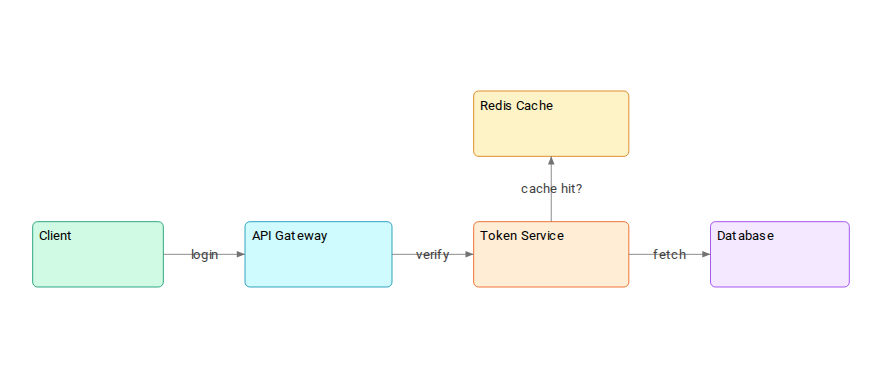
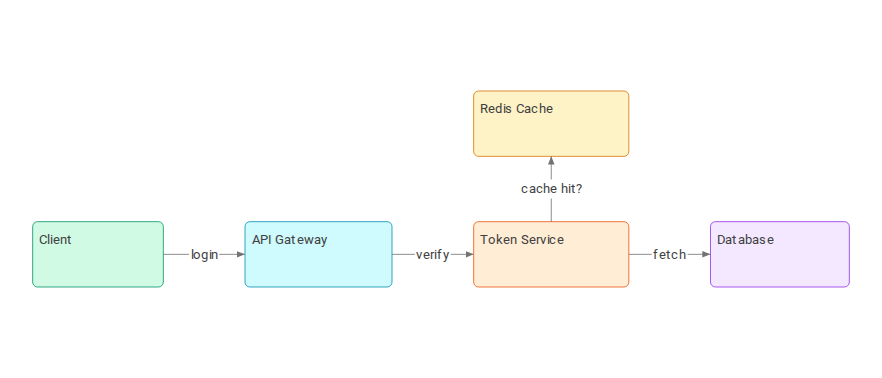
fix(web): docs-snapshot fixtures follow the two seams they fell behind; regenerate docs/assets (#1326)
* fix(web): follow the two seams docs-snapshot fixtures fell behind

`pnpm docs:snapshots` failed 5/8: ADR-0023's boot chain moved
`getBrowserWorkspaceId()` behind an async resolve, and nothing seeded
the docs-snapshot suite's own test seam for it (LocalStoreDouble reads
the accessor in its constructor). WorkspaceTopBar separately retired
its own inline title in #1004, so the three TopBarFrame-based fixtures
were waiting on text a titleSlot-less bar can never render.

- _setup.ts seeds the browser workspace id/segment via
  setBrowserWorkspaceIdForTests, the same seam every other browser
  test file uses (browser-setup.ts).
- _top-bar-frame.tsx wires a minimal titleSlot, matching how
  WorkspaceTopBar.test.tsx exercises it; the three canvas-hero fixtures
  now wait on the document title it renders ("System architecture")
  instead of a workspace name the bar has not shown since #1004.
- browser-local-list/onboarding-chooser give their seeded workspace a
  displayName so the page's h1 (visible since #1129, previously
  sr-only) reads as a named workspace instead of a raw ULID.

Claude-Session: https://claude.ai/code/session_01N7iuGxJAXjr6rEXfS7YAC6

* docs(web): regenerate docs/assets from the fixed docs-snapshot suite

Refreshes all 8 images now that `pnpm docs:snapshots` runs clean:
browser-local-list, onboarding-chooser, canvas-agent-drew,
canvas-browser-ui and canvas-user-annotated pick up the fixes in the
[…]

diff --git a/apps/web/src/docs-snapshots/browser-local-list.docs-snapshot.test.tsx b/apps/web/src/docs-snapshots/browser-local-list.docs-snapshot.test.tsx
@@ -2,6 +2,7 @@ import { cleanup, render, waitFor } from '@testing-library/react'
 import { MemoryRouter } from 'react-router-dom'
 import { afterEach, beforeEach, describe, it, vi } from 'vitest'
 import { page } from 'vitest/browser'
+import { getBrowserWorkspaceId } from '../lib/browser-workspace-id.js'
 import { BrowserIndexPage } from '../pages/BrowserIndexPage.js'
 import { LocalStoreDouble } from '../test-utils/local-index.js'
 import '../index.css'
@@ -33,6 +34,12 @@ afterEach(() => {
 describe('docs snapshot: browser document list', () => {
   it('captures the list with a markdown note and a spatial pair', async () => {
     const store = new LocalStoreDouble()
+    // Named so the page's h1 (visible since #1129) reads as a workspace a
+    // person named, not the raw ULID the seeded double falls back to.
+    await store.index.renameWorkspace({
+      workspaceId: getBrowserWorkspaceId(),
+      displayName: 'Main workspace',
+    })
     // 1d, 2d, 5d ago relative to NOW so the labels stay stable.
     await store.save({
       documentId: '0RVY147ADGKPSWZ258BEHMQTX0',
@@ -75,6 +82,9 @@ describe('docs snapshot: browser document list', () => {
     await waitFor(() => {
       if (document.querySelectorAll('[data-testid="card-title"]').length !== 3) {
         throw new Error('cards not settled')
+      }
+      if (document.querySelector('h1')?.textContent !== 'Main workspace') {
+        throw new Error('workspace name not yet rendered')
       }
     })
 

diff --git a/apps/web/src/docs-snapshots/_helpers.ts b/apps/web/src/docs-snapshots/_helpers.ts
@@ -76,15 +76,15 @@ export function topBarFetchHandler({ dirty }: { dirty: boolean }): DocFetchHandl
 // content shift layout after the capture, producing a byte-unstable PNG.
 export async function waitForSnapshotContent(
   container: HTMLElement,
-  { sceneText, topBarWorkspaceName }: { sceneText: string; topBarWorkspaceName?: string },
+  { sceneText, topBarTitle }: { sceneText: string; topBarTitle?: string },
 ): Promise<void> {
   await waitFor(() => {
-    if (topBarWorkspaceName !== undefined) {
-      // The workspace name, not the canvas name: row one says where you ARE
-      // (application + workspace) and row two owns the canvas. Waiting on a
-      // canvas name here waits for something this row never renders.
-      if (!(container.textContent ?? '').includes(topBarWorkspaceName)) {
-        throw new Error('TopBar workspace name not yet rendered')
+    if (topBarTitle !== undefined) {
+      // The document's title (WorkspaceTopBar's titleSlot), not the canvas
+      // scene text: waiting on scene content here waits for something this
+      // check never renders.
+      if (!(container.textContent ?? '').includes(topBarTitle)) {
+        throw new Error('TopBar title not yet rendered')
       }
       if (!container.querySelector('[aria-label^="Switch variation"]')) {
         throw new Error('HeaderBranchChip not yet rendered')

diff --git a/apps/web/src/docs-snapshots/onboarding-chooser.docs-snapshot.test.tsx b/apps/web/src/docs-snapshots/onboarding-chooser.docs-snapshot.test.tsx
@@ -2,6 +2,7 @@ import { cleanup, render, waitFor } from '@testing-library/react'
 import { MemoryRouter } from 'react-router-dom'
 import { afterEach, describe, it } from 'vitest'
 import { page } from 'vitest/browser'
+import { getBrowserWorkspaceId } from '../lib/browser-workspace-id.js'
 import { BrowserIndexPage } from '../pages/BrowserIndexPage.js'
 import { LocalStoreDouble } from '../test-utils/local-index.js'
 import '../index.css'
@@ -15,6 +16,12 @@ afterEach(cleanup)
 describe('docs snapshot: onboarding chooser', () => {
   it('captures the empty-workspace chooser', async () => {
     const store = new LocalStoreDouble()
+    // Named so the page's h1 (visible since #1129) reads as a workspace a
+    // person named, not the raw ULID the seeded double falls back to.
+    await store.index.renameWorkspace({
+      workspaceId: getBrowserWorkspaceId(),
+      displayName: 'Main workspace',
+    })
 
     render(
       <MemoryRouter initialEntries={['/']}>
@@ -32,6 +39,9 @@ describe('docs snapshot: onboarding chooser', () => {
     await waitFor(() => {
       if (!document.body.textContent?.includes('What will you make first?')) {
         throw new Error('chooser not settled')
+      }
+      if (document.querySelector('h1')?.textContent !== 'Main workspace') {
+        throw new Error('workspace name not yet rendered')
       }
     })
 

diff --git a/apps/web/src/docs-snapshots/_setup.ts b/apps/web/src/docs-snapshots/_setup.ts
@@ -5,8 +5,20 @@
 // each test remembering to call seedMathRandom() in beforeEach, which is
 // easy to forget when adding new scenes.
 
+import { generateDocumentId } from '@kamiazya/whiteboard-model'
 import { afterEach, beforeEach } from 'vitest'
+import { BROWSER_DEFAULT_SEGMENT } from '../lib/browser-idb.js'
+import { setBrowserWorkspaceIdForTests } from '../lib/browser-workspace-id.js'
 import { seedMathRandom } from './_helpers.js'
+
+// No snapshot test runs the boot chain that resolves the browser workspace
+// id (see browser-workspace-id.ts), so anything that reads it — LocalStoreDouble,
+// BrowserIndexPage — throws unless a fixed id is seeded up front. Same seam
+// and rationale as test-utils/browser-setup.ts, which every non-docs browser
+// test already relies on for this. The id itself never renders — a page
+// that shows a workspace name gives its seeded workspace a displayName —
+// so a freshly minted one (rather than a fixed literal) is fine here.
+setBrowserWorkspaceIdForTests(generateDocumentId(), BROWSER_DEFAULT_SEGMENT)
 
 let restoreMathRandom: (() => void) | null = null
 

diff --git a/apps/web/src/docs-snapshots/_top-bar-frame.tsx b/apps/web/src/docs-snapshots/_top-bar-frame.tsx
@@ -26,6 +26,11 @@ export function TopBarFrame({ testId, width, height, scene }: TopBarFrameProps) 
         workspaceId="ws_main"
         path="design/architecture"
         onToggleFullscreen={() => undefined}
+        // WorkspaceTopBar itself renders no title (retired in #1004); the
+        // host page supplies it. Mirrors the minimal wiring
+        // WorkspaceTopBar.test.tsx uses, since this fixture has no rename UI
+        // to demonstrate.
+        titleSlot={(identity) => <span>{identity.name}</span>}
       />
       <div style={{ height: `calc(100% - ${TOP_BAR_HEIGHT_PX}px)` }}>
         <CanvasViewer

diff --git a/apps/web/src/docs-snapshots/canvas-agent-drew.docs-snapshot.test.tsx b/apps/web/src/docs-snapshots/canvas-agent-drew.docs-snapshot.test.tsx
@@ -47,7 +47,7 @@ describe('docs snapshot — agent drew the architecture diagram', () => {
 
     await waitForSnapshotContent(container, {
       sceneText: 'Whiteboard',
-      topBarWorkspaceName: 'Main workspace',
+      topBarTitle: 'System architecture',
     })
     await captureDocAsset(container, 'canvas-agent-drew-frame', 'canvas-agent-drew.png')
   })

diff --git a/apps/web/src/docs-snapshots/canvas-user-annotated.docs-snapshot.test.tsx b/apps/web/src/docs-snapshots/canvas-user-annotated.docs-snapshot.test.tsx
@@ -69,7 +69,7 @@ describe('docs snapshot — user added review notes', () => {
 
     await waitForSnapshotContent(container, {
       sceneText: 'tighten',
-      topBarWorkspaceName: 'Main workspace',
+      topBarTitle: 'System architecture',
     })
     await captureDocAsset(container, 'canvas-user-annotated-frame', 'canvas-user-annotated.png')
   })

diff --git a/apps/web/src/docs-snapshots/canvas-browser-ui.docs-snapshot.test.tsx b/apps/web/src/docs-snapshots/canvas-browser-ui.docs-snapshot.test.tsx
@@ -61,7 +61,7 @@ describe('docs snapshot — canvas browser UI hero', () => {
 
     await waitForSnapshotContent(container, {
       sceneText: 'Whiteboard',
-      topBarWorkspaceName: 'Main workspace',
+      topBarTitle: 'System architecture',
     })
     await captureDocAsset(container, 'canvas-browser-ui-frame', 'canvas-browser-ui.png')
   })
